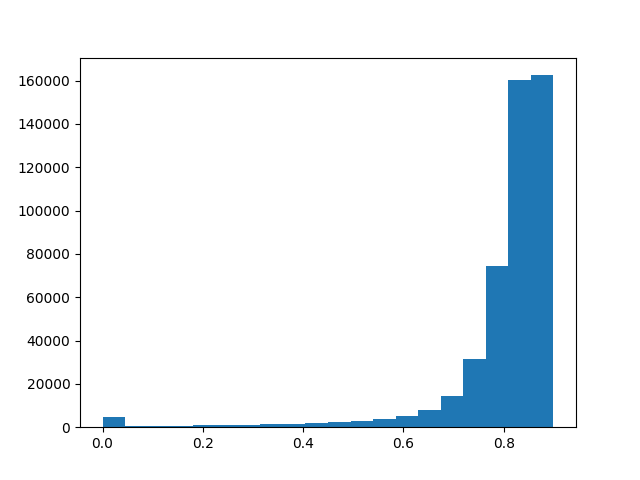
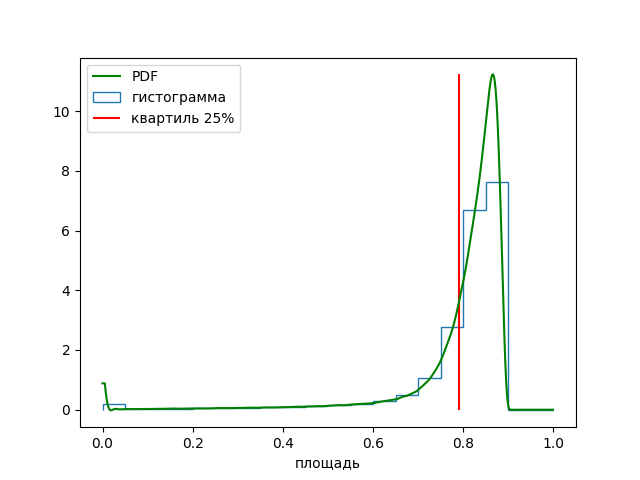
Area intersection plots updated

diff --git a/calculate_area_bound_value.py b/calculate_area_bound_value.py
@@ -1,9 +1,17 @@
 import numpy as np
 from sklearn.linear_model import LinearRegression
 from matplotlib import pyplot as plt
+from scipy.interpolate import interp1d
 
 from data import get_ages, get_genders_idxs, get_betas, get_bad_cpgs, get_gene_dict
 from polygon import get_polygon, get_polygons_areas, get_polygon_xy
+
+
+# Intersection area bound values (25%)
+AREA_BOUND_40279 = 0.8137639994808806
+AREA_BOUND_87571 = 0.7914361897297456
+AREA_BOUND_EPIC  = 0.7152952487992403
+AREA_BOUND_55763 = 0.8820720148976503
 
 
 def calculate_area_bound_value(age_idx, gender_idx, data_path, base_name):
@@ -50,6 +58,25 @@ def calculate_area_bound_value(age_idx, gender_idx, data_path, base_name):
     return np.asarray(areas, dtype=float)
 
 
+def get_plot(values, bound_value, file_name):
+    a, b, _ = plt.hist(values, bins = 100, density=True, histtype='step', range=(0, 1))
+    plt.clf()
+
+    centers = [(b[i]+b[i+1])/2 for i in range(len(a))]
+    f = interp1d(centers, a, kind='cubic', bounds_error=False, fill_value=(a[0], a[-1]))
+    x_int = np.arange(0, 1, .001)
+    y_int = f(x_int)
+
+    plt.plot(x_int, y_int, color='green', label='PDF')
+    plt.vlines(bound_value, ymin=np.min(y_int), ymax=np.max(y_int), colors='red', label='квартиль 25%')
+    a, b, _ = plt.hist(values, bins = 20, density=True, histtype='step', range=(0, 1), label='гистограмма')
+
+    plt.xlabel('площадь')
+    plt.legend()
+    plt.savefig(file_name)
+    plt.clf()
+
+
 def load_areas():
     file = np.load('./results/areas.npz')
     areas40279 = file['areas40279']
@@ -61,21 +88,10 @@ def load_areas():
     print(f'{np.min(areas40279)}, {np.min(areas87571)}, {np.min(areasEPIC)}, {np.min(areas55763)}')
     print(f'{np.max(areas40279)}, {np.max(areas87571)}, {np.max(areasEPIC)}, {np.max(areas55763)}')
 
-    plt.hist(areas40279, bins = 20)
-    plt.savefig(f'./results/areas_GSE40279.png')
-    plt.clf()
-
-    plt.hist(areas87571, bins = 20)
-    plt.savefig(f'./results/areas_GSE87571.png')
-    plt.clf()
-
-    plt.hist(areasEPIC, bins = 20)
-    plt.savefig(f'./results/areas_epic.png')
-    plt.clf()
-
-    plt.hist(areas55763, bins = 20)
-    plt.savefig(f'./results/areas_GSE55763.png')
-    plt.clf()
+    get_plot(areas40279, AREA_BOUND_40279, './results/areas_GSE40279.png')
+    get_plot(areas87571, AREA_BOUND_87571, './results/areas_GSE87571.png')
+    get_plot(areasEPIC,  AREA_BOUND_EPIC,  './results/areas_epic.png')
+    get_plot(areas55763, AREA_BOUND_55763, './results/areas_GSE55763.png')
 
 
 def main():

diff --git a/histograms.py b/histograms.py
@@ -14,15 +14,15 @@ def get_histogram(age_idx, gender_idx, data_path, base_name, save_path, swap_fla
     female_ages = np.asarray([ages[i] for i in female_idxs])
 
     if swap_flag:
-        plt.hist(female_ages, bins=35, range=(0, 101), color='#FF69B4', label='gender(F)', alpha=.6)
-        plt.hist(male_ages,   bins=35, range=(0, 101), color='#87CEFA', label='gender(M)', alpha=.6)
+        plt.hist(female_ages, bins=35, range=(-5, 105), color='#FF69B4', label='gender(F)', alpha=.6)
+        plt.hist(male_ages,   bins=35, range=(-5, 105), color='#87CEFA', label='gender(M)', alpha=.6)
     else:
-        plt.hist(male_ages,   bins=35, range=(0, 101), color='#87CEFA', label='gender(M)', alpha=.6)
-        plt.hist(female_ages, bins=35, range=(0, 101), color='#FF69B4', label='gender(F)', alpha=.6)
+        plt.hist(male_ages,   bins=35, range=(-5, 105), color='#87CEFA', label='gender(M)', alpha=.6)
+        plt.hist(female_ages, bins=35, range=(-5, 105), color='#FF69B4', label='gender(F)', alpha=.6)
 
     plt.title(f'{base_name}')
-    plt.xlabel('age')
-    plt.ylabel('count')
+    plt.xlabel('возраст')
+    plt.ylabel('количество')
     plt.legend()
 
     plt.savefig(f'{save_path}histogram_{base_name}.png')
